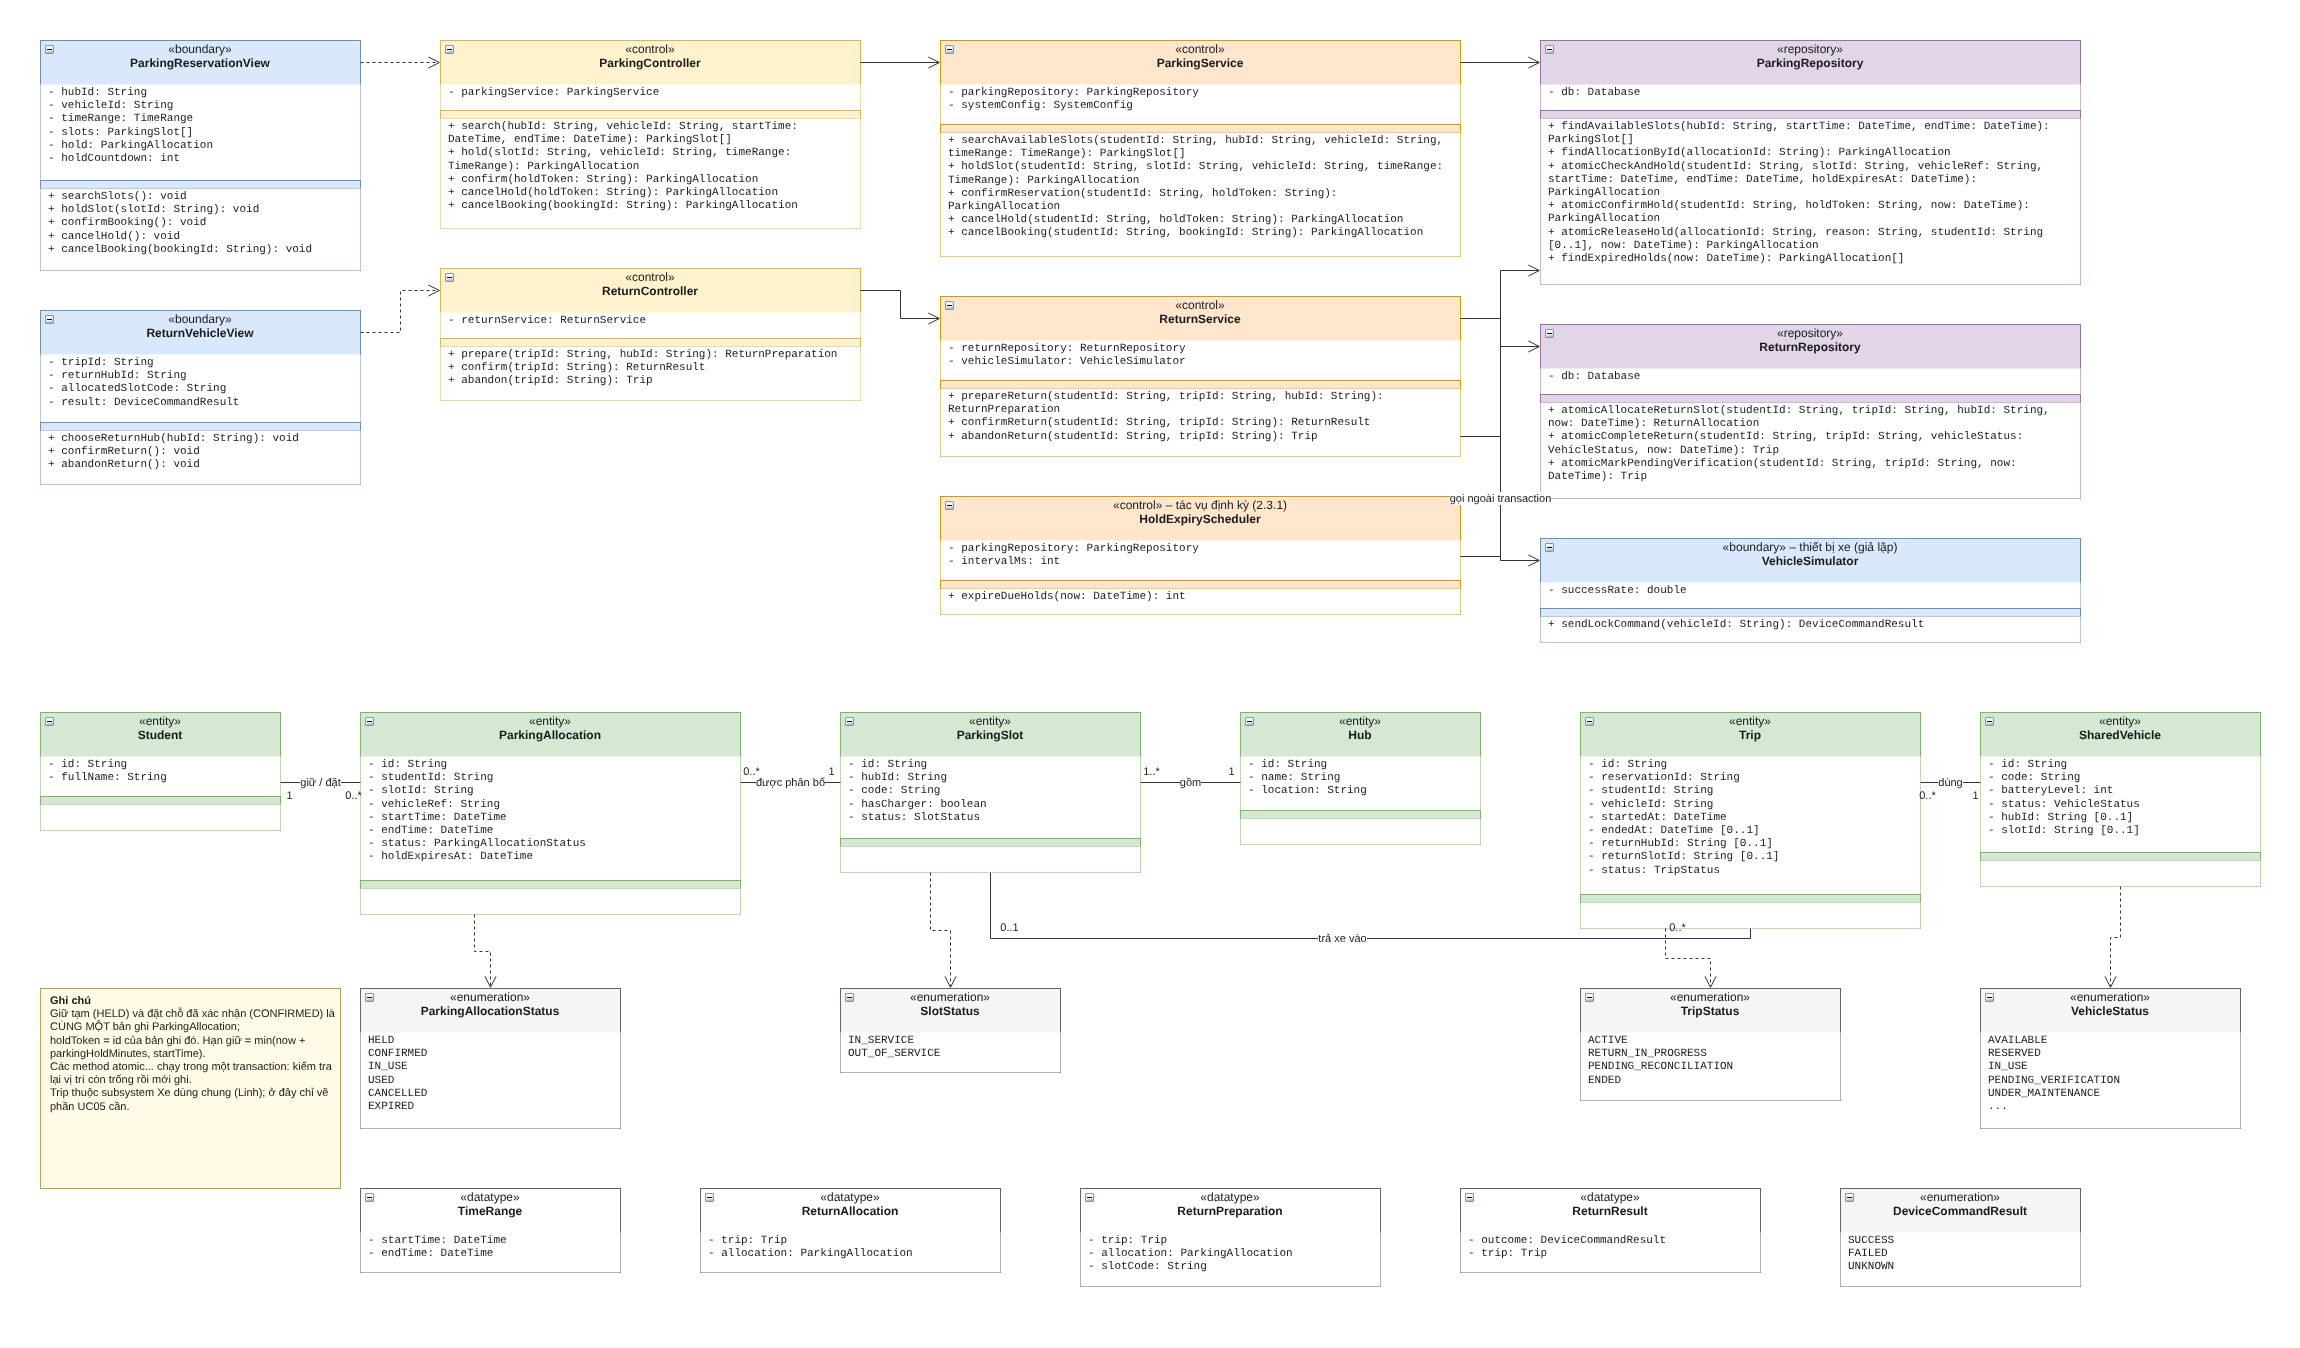
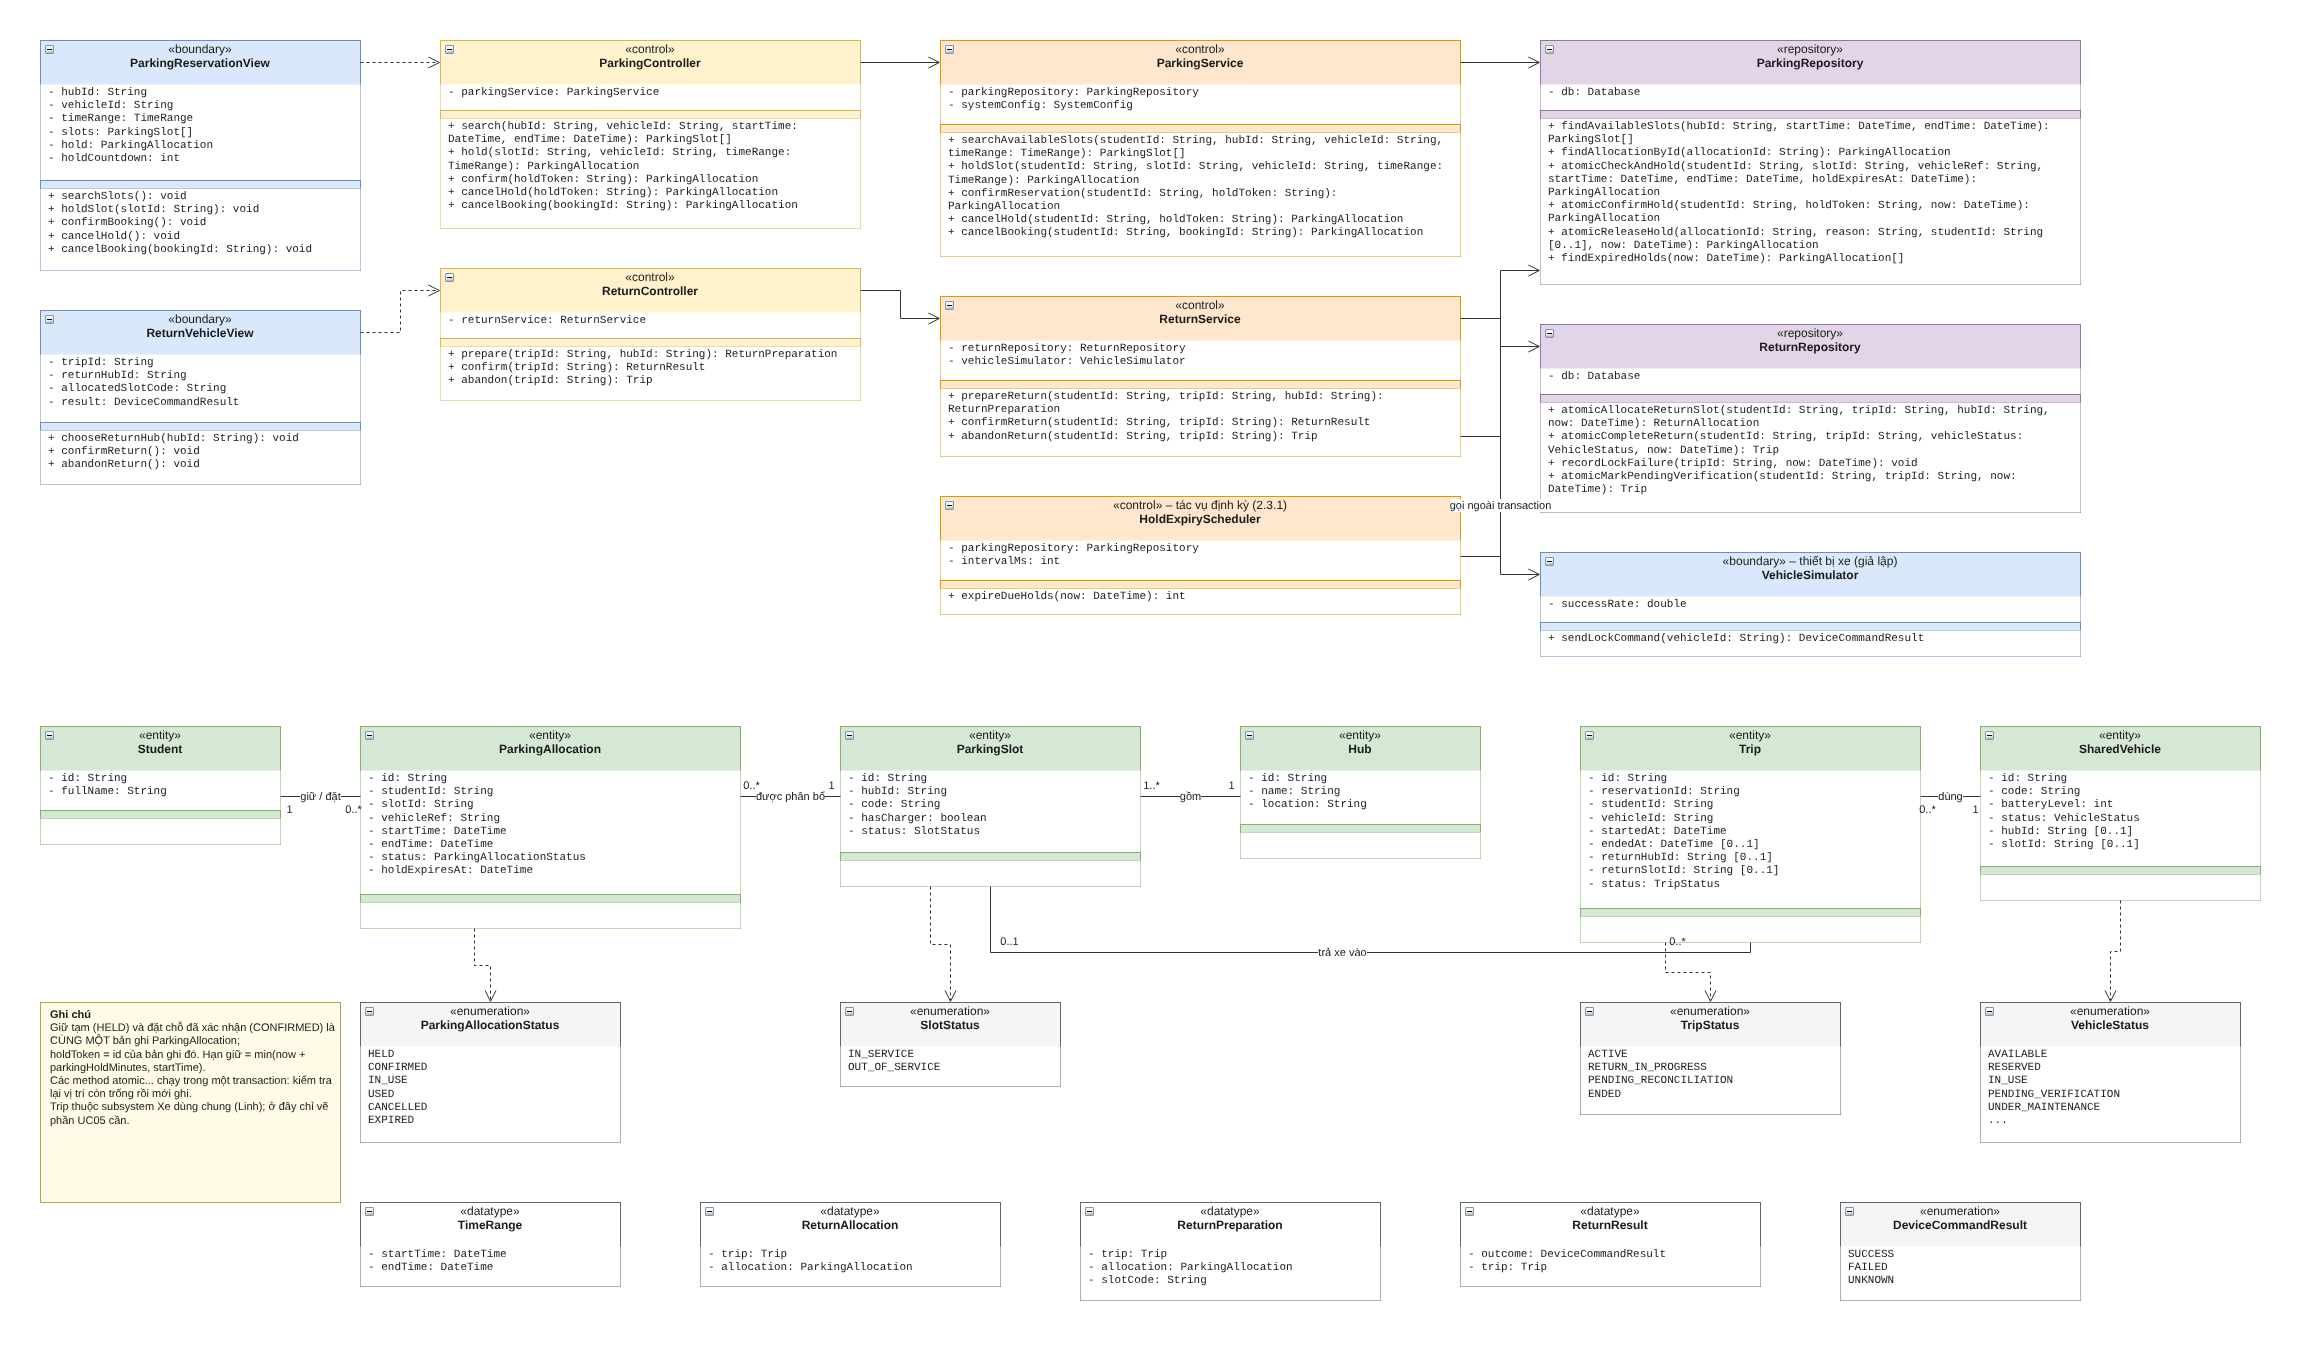
docs(class): clarify return outcomes and add normal return test case
- FAILED records the failure and keeps the trip and slot allocation
- map vehicle status after return per Submission 1 step 9a
- add recordLockFailure to ReturnRepository stub and diagram
- add TC-UC05-02 for a normal successful return

diff --git a/server/src/repositories/ReturnRepository.ts b/server/src/repositories/ReturnRepository.ts
@@ -14,10 +14,15 @@ export const returnRepository = {
 
   /**
    * UC05 – sau khi khóa xe SUCCESS: Trip ENDED, xe đặt tại vị trí mới với vehicleStatus
-   * (AVAILABLE, hoặc UNDER_MAINTENANCE nếu pin thấp / có sự cố), cập nhật phân bổ.
+   * (AVAILABLE; pin < reservableBatteryThreshold hoặc sự cố → UNDER_MAINTENANCE; chưa rõ → PENDING_VERIFICATION), cập nhật phân bổ.
    */
   atomicCompleteReturn(input: { studentId: string; tripId: string; vehicleStatus: VehicleStatus; now: Date }): Trip {
     throw notImplemented("ReturnRepository.atomicCompleteReturn (UC05)");
+  },
+
+  /** UC05 – khóa xe FAILED: ghi nhận lần thất bại; Trip vẫn RETURN_IN_PROGRESS, giữ vị trí, xe chưa được cấp lại. */
+  recordLockFailure(input: { tripId: string; now: Date }): void {
+    throw notImplemented("ReturnRepository.recordLockFailure (UC05)");
   },
 
   /** UC05 – khóa xe UNKNOWN: Trip PENDING_RECONCILIATION, xe PENDING_VERIFICATION, giữ nguyên vị trí đã phân bổ. */

diff --git a/server/src/services/ReturnService.ts b/server/src/services/ReturnService.ts
@@ -23,7 +23,7 @@ export const returnService = {
   /**
    * UC05 bước 5–7: vehicleSimulator.sendLockCommand (NGOÀI transaction)
    * → SUCCESS: atomicCompleteReturn (trạng thái xe theo pin/sự cố)
-   * → FAILED: không đổi dữ liệu, cho thử lại · UNKNOWN: atomicMarkPendingVerification + báo Operator.
+   * → FAILED: recordLockFailure, giữ vị trí, cho thử lại · UNKNOWN: atomicMarkPendingVerification + báo Operator.
    */
   async confirmReturn(studentId: string, tripId: string): Promise<ReturnResult> {
     throw notImplemented("ReturnService.confirmReturn (UC05)");

diff --git a/docs/submission-3/quangnhan/quangnhan-method-testcase.md b/docs/submission-3/quangnhan/quangnhan-method-testcase.md
@@ -28,10 +28,12 @@ Hình: `class-tai-khoan-do-xe.drawio` (trang "Tai khoan" và trang "Do xe va tra
 | **Tham số** | `studentId`: sinh viên đang đăng nhập · `tripId`: chuyến đi đang trả xe |
 | **Kết quả trả về** | `ReturnResult` gồm kết quả khóa (SUCCESS / FAILED / UNKNOWN) và chuyến đi sau khi cập nhật |
 | **Tiền điều kiện** | Chuyến đi thuộc sinh viên và đang RETURN_IN_PROGRESS, tức là đã gọi `prepareReturn` và được phân bổ vị trí trả xe |
-| **Hậu điều kiện** | **SUCCESS**: chuyến đi ENDED, ghi `endedAt`; xe được gán Hub và vị trí mới, trạng thái xe xác định theo pin và tình trạng kỹ thuật: đủ pin và không có sự cố → AVAILABLE, pin dưới `reservableBatteryThreshold` hoặc có sự cố → UNDER_MAINTENANCE (chuyến đi vẫn kết thúc) · **FAILED** (khóa thất bại): không đổi dữ liệu, chuyến đi vẫn RETURN_IN_PROGRESS, vị trí vẫn được giữ, sinh viên có thể thử khóa lại hoặc liên hệ Operator · **UNKNOWN** (không xác định được kết quả): chuyến đi PENDING_RECONCILIATION, xe PENDING_VERIFICATION, Operator nhận cảnh báo để xác minh; không phân bổ lại vị trí |
+| **Hậu điều kiện** | **SUCCESS**: chuyến đi ENDED, ghi `endedAt`; xe được gán Hub và vị trí mới; trạng thái xe xác định từ kết quả khóa (pin, tình trạng kỹ thuật) theo Sub #1 bước 9a: bình thường → AVAILABLE · pin dưới `reservableBatteryThreshold` (cấu hình) hoặc có sự cố → UNDER_MAINTENANCE · chưa rõ tình trạng → PENDING_VERIFICATION. Hai trường hợp sau chuyến đi vẫn kết thúc nhưng xe không được cấp lại · **FAILED** (khóa thất bại): `recordLockFailure` ghi nhận lần thất bại; chuyến đi chưa kết thúc (vẫn RETURN_IN_PROGRESS), giữ nguyên vị trí đã phân bổ, xe chưa được cấp lại; sinh viên thử khóa lại hoặc liên hệ Operator · **UNKNOWN** (không xác định kết quả): chuyến đi PENDING_RECONCILIATION, xe PENDING_VERIFICATION, Operator nhận cảnh báo; không cấp lại xe, không giải phóng vị trí |
 | **Ngoại lệ** | Chuyến đi không tồn tại hoặc không thuộc sinh viên → `NOT_FOUND` · Chuyến đi không ở trạng thái RETURN_IN_PROGRESS → `CONFLICT` |
 
 ## Test case
+
+> Quy ước nhóm: hệ thống chưa có trạng thái riêng "cần sạc", nên xe pin thấp sau khi trả được đặt UNDER_MAINTENANCE (tạm ngừng cấp, chờ sạc). Xe chỉ chuyển CHARGING khi thực sự được cắm sạc.
 
 Dữ liệu dùng theo dữ liệu mẫu của hệ thống: tài khoản `student1`, `student2`; Hub ĐH Bách Khoa có vị trí `BKU-01` đến `BKU-20`; dữ liệu mẫu đã đặt xe dùng chung ở `BKU-01`–`BKU-08` và `BKU-17`–`BKU-18`, nên test dùng các vị trí trống `BKU-09` trở đi.
 
@@ -92,8 +94,21 @@ Dữ liệu dùng theo dữ liệu mẫu của hệ thống: tài khoản `stude
 | Mục | Nội dung |
 | --- | --- |
 | **Test Case ID** | TC-UC05-02 |
+| **Test Items** | UC05 – trả xe thành công, xe bình thường được cấp lại |
+| **Pre-condition** | student1 đang có chuyến đi ACTIVE; Hub ĐH Bách Khoa còn vị trí trống; pin xe từ `reservableBatteryThreshold` trở lên, không có sự cố; bộ giả lập trả SUCCESS cho lệnh khóa |
+| **Test Data** | student1, Hub ĐH Bách Khoa |
+| **Test Steps** | 1. Mở màn hình Chuyến đi, chọn Trả xe, chọn Hub ĐH Bách Khoa<br>2. Đỗ xe vào vị trí được phân bổ, bấm Xác nhận trả xe |
+| **Expected results** | Chuyến đi ENDED, có `endedAt` · Xe AVAILABLE tại vị trí mới · student2 thấy xe trong danh sách có thể đặt ở Hub ĐH Bách Khoa |
+| **Result** | |
+| **Comments** | |
+
+### TC-UC05-03
+
+| Mục | Nội dung |
+| --- | --- |
+| **Test Case ID** | TC-UC05-03 |
 | **Test Items** | UC05 – trả xe thành công, xe pin thấp không được cấp lại ngay |
-| **Pre-condition** | student1 đang có chuyến đi ACTIVE; Hub ĐH Bách Khoa còn vị trí trống; pin xe 15%, dưới ngưỡng `reservableBatteryThreshold` (30%); bộ giả lập trả SUCCESS cho lệnh khóa |
+| **Pre-condition** | student1 đang có chuyến đi ACTIVE; Hub ĐH Bách Khoa còn vị trí trống; pin xe dưới ngưỡng `reservableBatteryThreshold` trong cấu hình; bộ giả lập trả SUCCESS cho lệnh khóa |
 | **Test Data** | student1, Hub ĐH Bách Khoa |
 | **Test Steps** | 1. Mở màn hình Chuyến đi, chọn Trả xe, chọn Hub ĐH Bách Khoa<br>2. Đỗ xe vào vị trí được phân bổ, bấm Xác nhận trả xe |
 | **Expected results** | Chuyến đi ENDED, có `endedAt` · Xe gắn với Hub và vị trí mới nhưng ở trạng thái UNDER_MAINTENANCE, không hiện trong danh sách xe có thể đặt |
